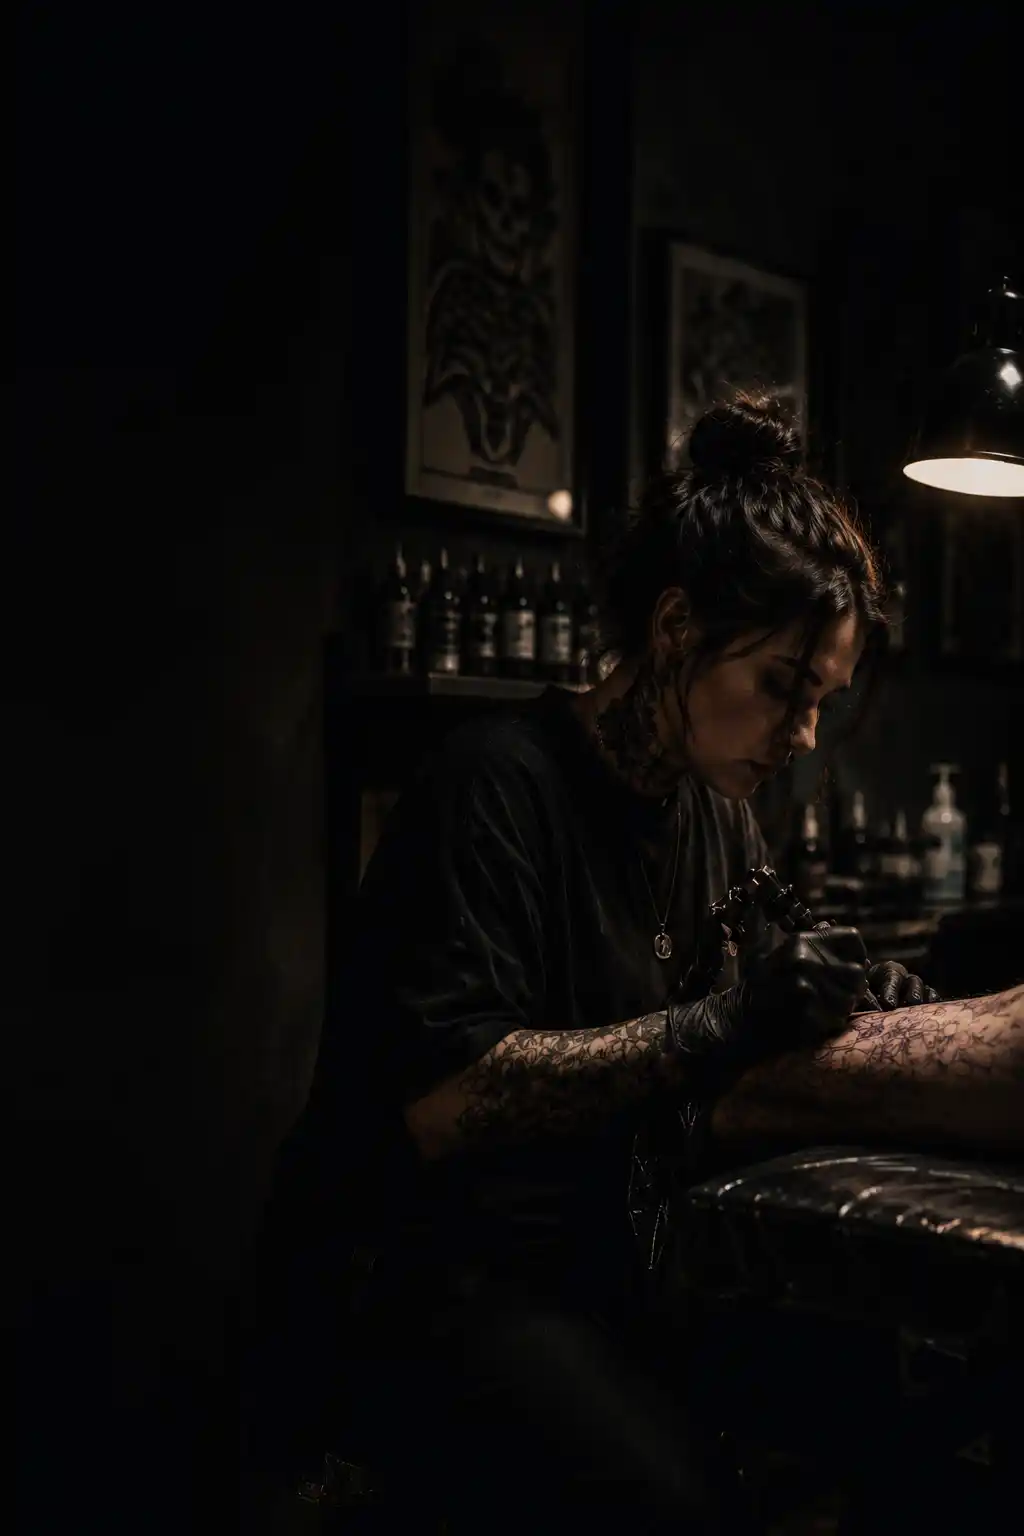
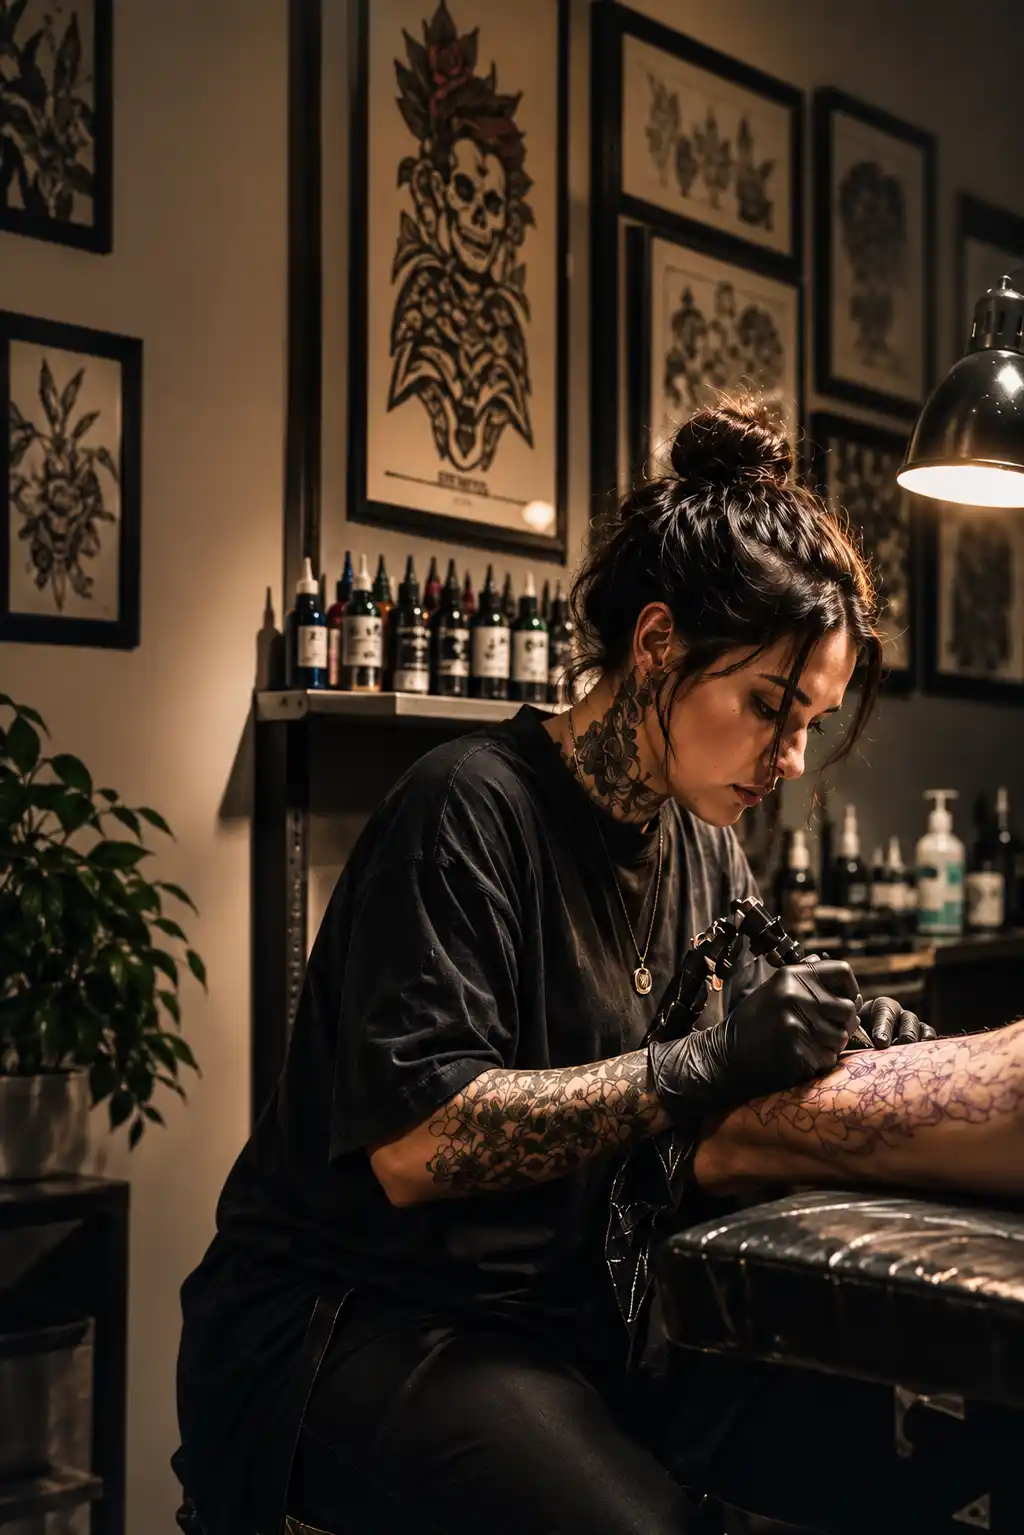
Reemplazar imagen de la sección Sobre Nosotros por una imagen con mejor iluminación. Reemplazar la imagen del Hero por una imagen con mejor iluminación. Cambiar el color del menú hamburguesa porque no se distinguía bien. Cambiar min-height: 100vh del Hero y las section por min-height: 100svh.

diff --git a/style.css b/style.css
@@ -78,7 +78,7 @@ header {
     display: block;
     width: 28px;
     height: 3px;
-    background:rgba(111, 90, 58, 0.45);
+    background:#A1A1AA;
    border-radius: 2px;
    transition: 0.3s;
 }
@@ -166,54 +166,64 @@ header {
 
 section {
     
-    min-height: 100vh; 
+    min-height: 100svh; 
 }
 
 
                   /* Hero */
-
 .hero {
     position: relative;
-    min-height: 100vh;
+    min-height: 100svh;
 
-    background-image: url(./images/imagen-de-fondo-para-hero.webp); /* Espacio para imagen de fondo */
-    background-size: cover;
-    background-position: center;
-    background-repeat: no-repeat;
-   
     display: flex;
     align-items: center;
     justify-content: flex-start;
-    text-align: left;
-      margin: 0 auto;
-    
-    
-}
-.hero::before {
-  content: "";
-  position: absolute;
-  inset: 0;
-  z-index: 0;
 
- background: linear-gradient(
-    rgba(0,0,0,0.5),
-    rgba(0,0,0,0.6)
-  );
+    text-align: left;
+    margin: 0 auto;
+
+    overflow: hidden;
+}
+
+.hero::before {
+    content: "";
+    position: absolute;
+    inset: 0;
+
+    background-image: url(./images/hero.webp);
+    background-size: cover;
+    background-position: center;
+    background-repeat: no-repeat;
+
+    transform: scale(1.02);
+
+    filter:
+        contrast(1.05)
+        saturate(1.05);
+
+    z-index: -2;
 }
 
 .hero::after {
-  content: "";
-  position: absolute;
-  inset: 0;
-  z-index: 0;
+    content: "";
+    position: absolute;
+    inset: 0;
 
-  background: radial-gradient(
-    circle at 30% 50%,
-    rgba(0,0,0,0.3),
-    transparent 60%
-  );
+    background:
+        linear-gradient(
+            to bottom,
+            rgba(0,0,0,0.45) 0%,
+            rgba(0,0,0,0.25) 35%,
+            rgba(0,0,0,0.55) 100%
+        ),
+      
+        radial-gradient(
+            circle at 75% 40%,
+            rgba(0,0,0,0.15) 0%,
+            rgba(0,0,0,0.45) 70%
+        );
 
-  pointer-events: none;
+    z-index: -1;
 }
 
 .hero-content {
@@ -303,6 +313,9 @@ h1 {
         gap: 1rem;
         padding: 0 1rem;
       
+    }
+    .hero::before {
+        background-position: 65% center;
     }
 
 
